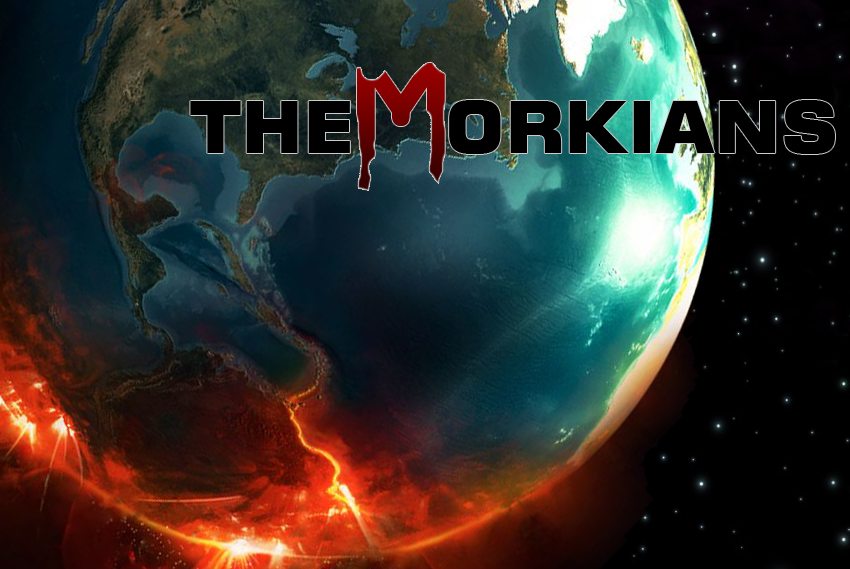
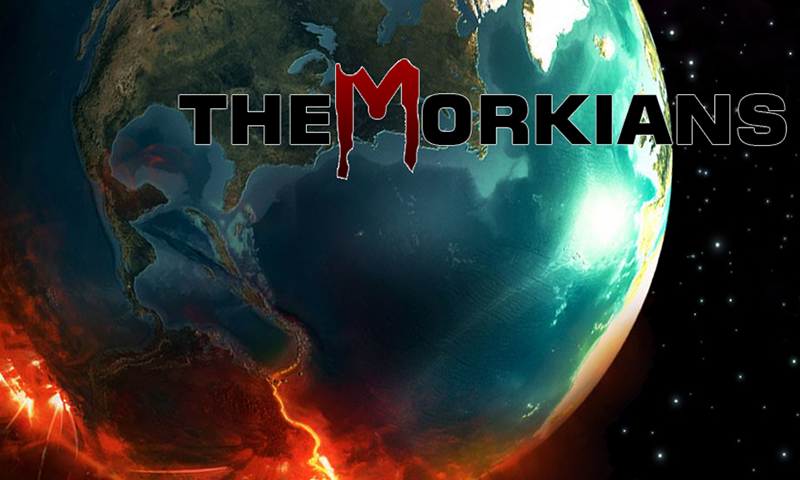
Splashscreen a funcionar

diff --git a/Morkians/app/src/main/java/com/example/casa/TheMorkians/MainActivity.java b/Morkians/app/src/main/java/com/example/casa/TheMorkians/MainActivity.java
@@ -64,7 +64,7 @@ public class MainActivity extends BaseGameActivity
         resourcesManager = ResourcesManager.getInstance();
         pOnCreateResourcesCallback.onCreateResourcesFinished();
 
-
+        /*
         BitmapTextureAtlasTextureRegionFactory.setAssetBasePath("gfx/");
         bitmapTextureAtlas = new BitmapTextureAtlas(getTextureManager(),2048, 2048);
         playerRegion = BitmapTextureAtlasTextureRegionFactory.createFromAsset(
@@ -86,6 +86,7 @@ public class MainActivity extends BaseGameActivity
         backgroundMusic = MusicFactory.createMusicFromAsset(getMusicManager(),this, "wagner_the_ride_of_the_valkyries.ogg");
         SoundFactory.setAssetBasePath("mfx/");
         shootSound=SoundFactory.createSoundFromAsset(getSoundManager(),this,"lightsaber_01.wav");
+        */
     }
 
 
@@ -93,6 +94,8 @@ public class MainActivity extends BaseGameActivity
     public void onCreateScene(OnCreateSceneCallback pOnCreateSceneCallback) {
 
         SceneManager.getInstance().createSplashScene(pOnCreateSceneCallback);
+
+        /*
         ballList = new ArrayList<>();
         bulletList = new ArrayList<>();
 
@@ -121,6 +124,7 @@ public class MainActivity extends BaseGameActivity
         backgroundMusic.setLooping(true);
 
         backgroundMusic.play();
+        */
 
     }
 
@@ -306,7 +310,7 @@ public class MainActivity extends BaseGameActivity
 
     public void onPopulateScene(Scene pScene, OnPopulateSceneCallback pOnPopulateSceneCallback) throws IOException
     {
-        mEngine.registerUpdateHandler(new TimerHandler(20f, new ITimerCallback()
+        mEngine.registerUpdateHandler(new TimerHandler(2f, new ITimerCallback()
         {
             public void onTimePassed(final TimerHandler pTimerHandler)
             {

diff --git a/Morkians/app/src/main/java/com/example/casa/TheMorkians/ResourcesManager.java b/Morkians/app/src/main/java/com/example/casa/TheMorkians/ResourcesManager.java
@@ -73,9 +73,9 @@ public class ResourcesManager {
 
     public void loadSplashScreen()
     {
-        BitmapTextureAtlasTextureRegionFactory. setAssetBasePath(" gfx/ ") ;
-        loadMenuTextureAtlas =  new BitmapTextureAtlas ( activity . getTextureManager ( ) ,  1024 ,  1024 , TextureOptions. BILINEAR ) ;
-        loadMenu_Region = BitmapTextureAtlasTextureRegionFactory . createFromAsset ( loadMenuTextureAtlas , activity ,  " mainMenu.png " ,  0 ,  0 ) ;
+        BitmapTextureAtlasTextureRegionFactory.setAssetBasePath("gfx/");
+        loadMenuTextureAtlas =  new BitmapTextureAtlas (activity.getTextureManager(), 800, 480, TextureOptions. BILINEAR ) ;
+        loadMenu_Region = BitmapTextureAtlasTextureRegionFactory.createFromAsset(loadMenuTextureAtlas, activity, "mainMenu.png", 0, 0);
         loadMenuTextureAtlas.load() ;
 
     }

diff --git a/Morkians/app/src/main/java/com/example/casa/TheMorkians/SplashScene.java b/Morkians/app/src/main/java/com/example/casa/TheMorkians/SplashScene.java
@@ -22,7 +22,7 @@ public class SplashScene extends BaseScene {
                 pGLState.enableDither();
             }
         };
-        loadImage.setScale(1.5f);
+        loadImage.setScale(1f);
         loadImage.setPosition(400,240);
         attachChild(loadImage);
 
